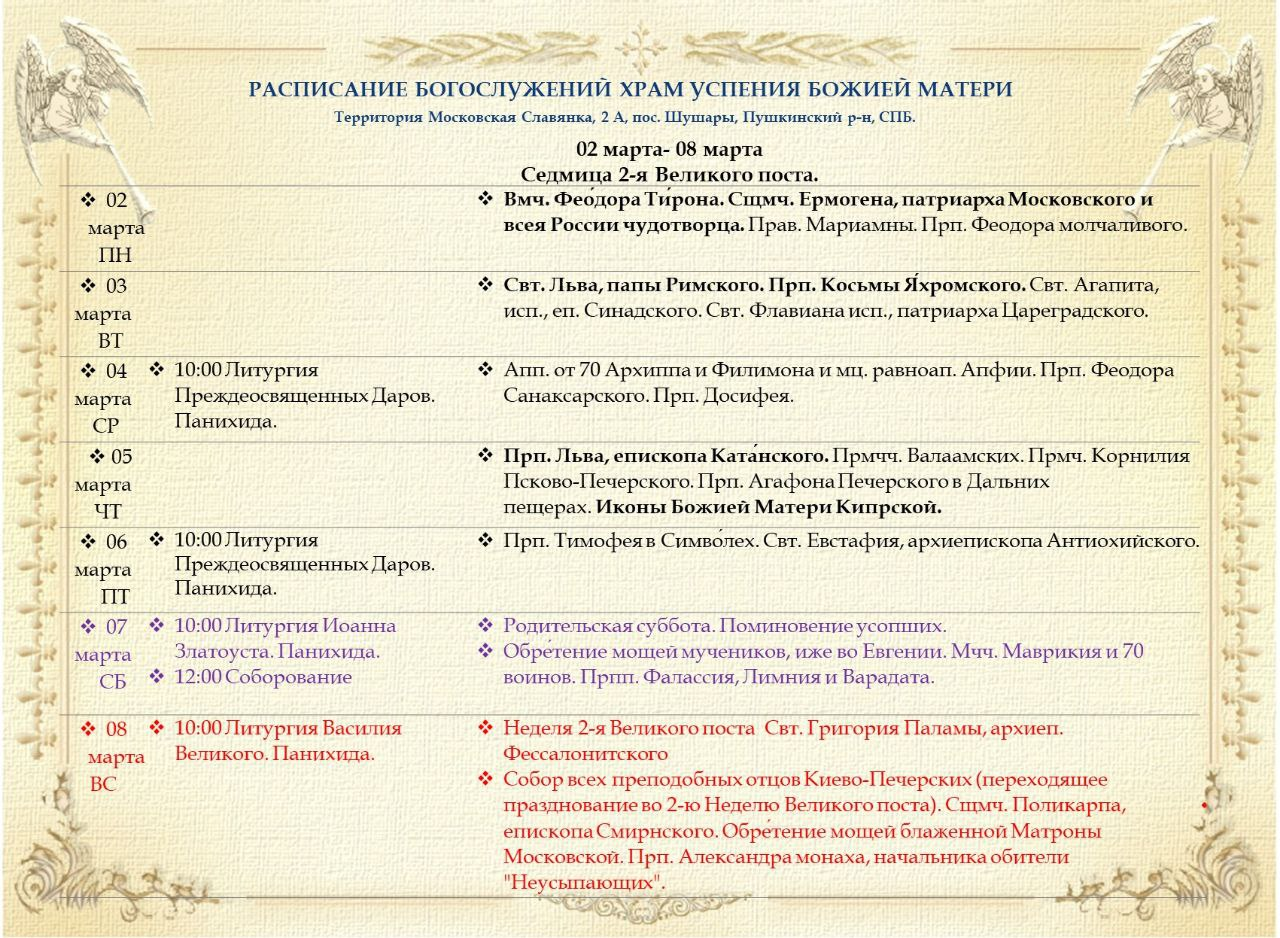
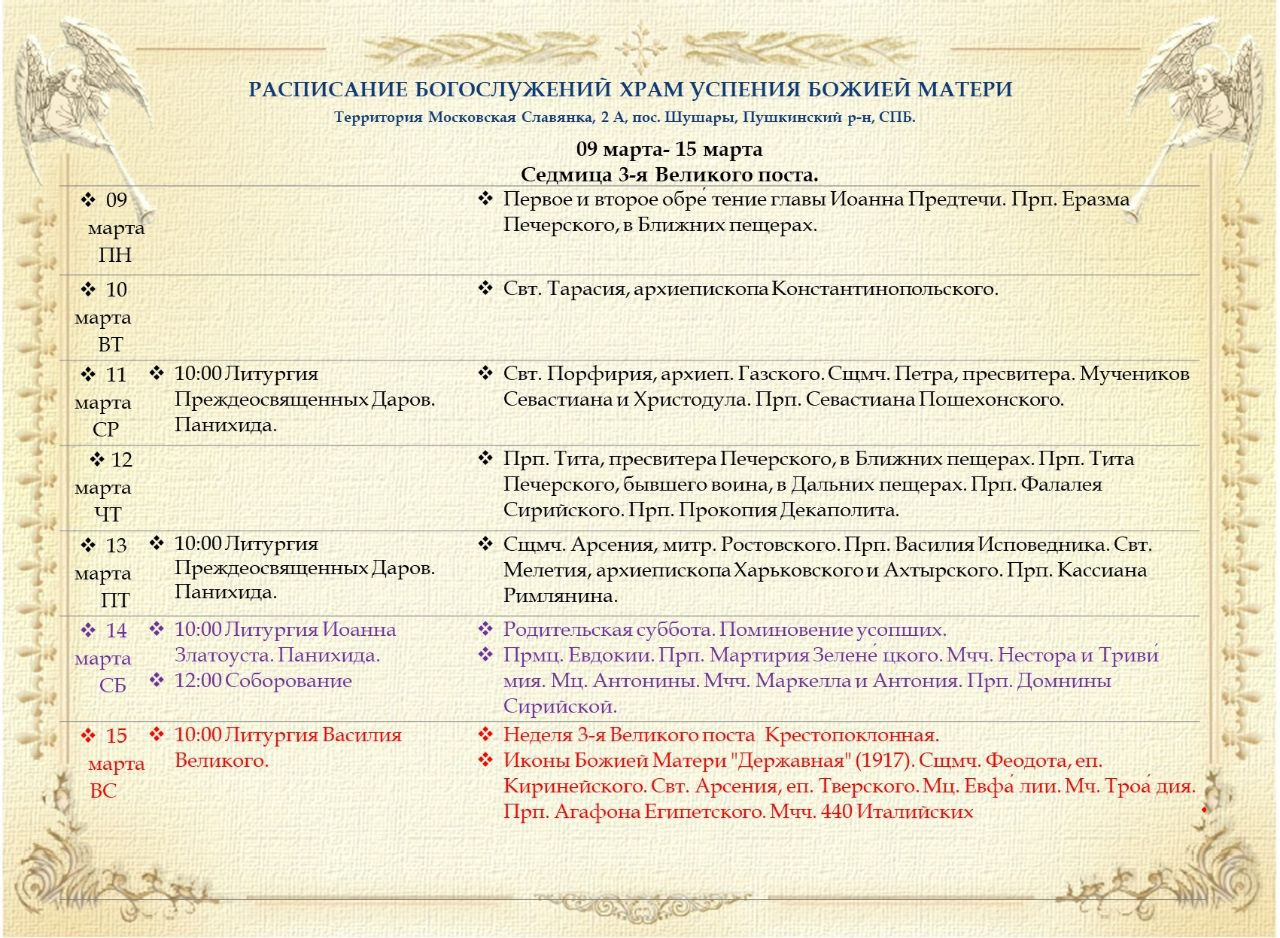
Заменено старое объявление на новое

Changed region(s): [[0.0625, 0.2783, 0.9375, 0.9584], [0.375, 0.1546, 0.9375, 0.2473], [0.375, 0.371, 0.9375, 0.4328]]

diff --git a/index.html b/index.html
@@ -106,7 +106,7 @@
             <p><strong>Объявление</strong></p>
             <div class="announcement">
                 <p>Внимание изменения в расписании на этой неделе!</p>
-                <small>Дорогие братья и сестры!!! Обращаем ваше внимание, что утром в пятницу (6 марта) богослужения не будет. Приносим извинения за неудобство!</small>
+                <small>Дорогие братья и сестры!!! Обращаем ваше внимание, что каждую субботу в Великом Посту в храме проходит Таинство Соборования в 12.00. Приглашаем всех желающих!</small>
             </div>
             <p class="important">Храни Вас Господь и Матерь Божия! Присоединяйтесь к нам, и мы будем рады видеть Вас в совместном духовном общении!</p>
         </div>
